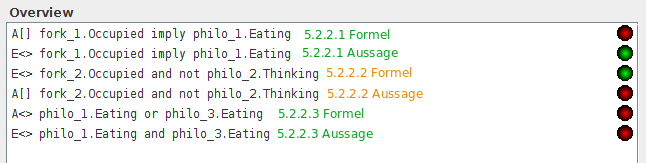
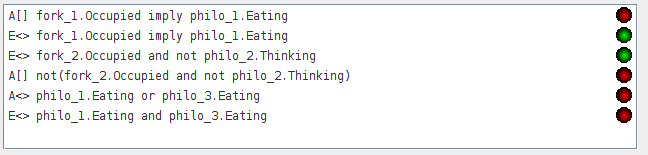
fix solution of concurrency exercise 5.2

Changed region(s): [[0.0, 0.0258, 0.9907, 0.8774], [0.0, 0.9548, 0.9907, 0.9806]]

diff --git a/documentation/source/concurrency/exercises.rst b/documentation/source/concurrency/exercises.rst
@@ -450,14 +450,14 @@ Ein Equivalent der Umgangssprache ist: :math:`\exists \lozenge k`
 5.2.1.2
 ^^^^^^^
 
-Die umgangssprachliche Form entspricht der Formel.
+*Möglicherweise* ist eine Tautologie und kann in UPPAAL nicht sinnvoll dargestellt werden. Demnach ist die Aussage immer wahr. Ein dazugehöriger Baum kann beliebiger Form sein. Die Formel entspricht der Aussage "*Es existiert ein Pfad in dem immer k oder m gilt*".
 
 .. image:: solutions/yed/Blatt_5_Aufgabe_5.2.1.2.png
 
 5.2.1.3
 ^^^^^^^
 
-Die umgangssprachliche Form entspricht nicht der Formel. Die Formel :math:`k \rightarrow m` entspricht der Aussage "*Wenn k aufgetreten ist tritt darauf irgendwann m auf*".
+Die umgangssprachliche Form entspricht nicht der Formel. Die Formel :math:`k \rightarrow m` entspricht der Aussage "*Für alle Pfade tritt k auf irgendwann gefolgt von einem m*".
 
 .. image:: solutions/yed/Blatt_5_Aufgabe_5.2.1.3.Formel.png
 
@@ -482,7 +482,7 @@ Die Formel impliziert, dass Philosoph 1 auf jeden Fall irgendwann essen wird, en
 5.2.2.2
 """""""
 
-Die Formel sagt aus, dass ein Pfad existiert in dem Gabel 2 belegt ist und Philosoph 2 nicht denkt. Die Aussage bezieht sich nicht auf einen bestimmten Pfad, sondern ist eine generelle Aussage. Die Formel dazu ist :math:`A \square fork_2.Occupied \wedge \neg philo_2.Thinking` (``A [] fork_2.Occupied and not philo_2.Thinking``)
+Die Formel sagt aus, dass ein Pfad existiert in dem Gabel 2 belegt ist und Philosoph 2 nicht denkt. Die Aussage bezieht sich nicht auf einen bestimmten Pfad, sondern ist eine generelle Aussage. Die Formel dazu ist :math:`A \square \neg (fork_2.Occupied \wedge \neg philo_2.Thinking)` (``A [] not (fork_2.Occupied and not philo_2.Thinking)``)
 
 5.2.2.3
 """""""
